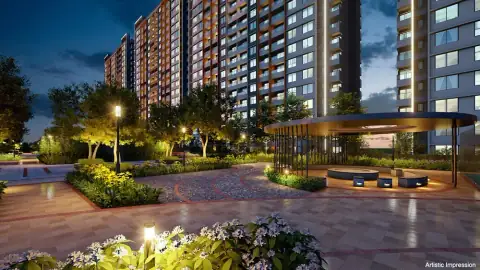
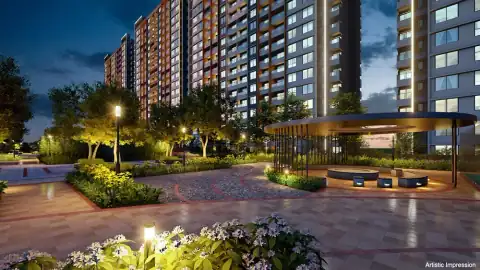
perf(edge): preload high-efficiency avif hero and use streaming HTMLRewriter in middleware

diff --git a/functions/_middleware.ts b/functions/_middleware.ts
@@ -102,16 +102,9 @@ export const onRequest: PagesFunction = async (context) => {
 
     const contentType = headers.get('content-type') || '';
 
-    // 8. Advanced Edge HTML Rewriting & Minification
-    // Preserves authentic SSG / SSR pre-rendered schema, canonical, and title without duplicate schema injection
+    // 8. Streaming Edge HTML Rewriting
+    // Preserves authentic SSG / SSR pre-rendered schema, canonical, and title with zero-latency streaming
     if (contentType.includes('text/html') && response.status === 200) {
-        let html = await response.text();
-
-        // Edge HTML Minification (Remove comments & inter-tag whitespace without breaking pre-rendered script tags)
-        html = html.replace(/<!--[\s\S]*?-->/g, '');
-        html = html.replace(/>\s+</g, '><');
-
-        // Edge verification headers injected cleanly into head
         const edgeMeta = `
             <meta name="cf-edge-optimized" content="true" />
             <meta name="cf-edge-location" content="${city}, ${country}" />
@@ -119,13 +112,18 @@ export const onRequest: PagesFunction = async (context) => {
             <meta name="visitor-country" content="${country}" />
             <meta name="preferred-currency" content="${preferredCurrency}" />
         `;
-        html = html.replace('</head>', `${edgeMeta}</head>`);
 
-        return new Response(html, {
+        const rewriter = new HTMLRewriter().on('head', {
+            element(el) {
+                el.append(edgeMeta, { html: true });
+            }
+        });
+
+        return rewriter.transform(new Response(response.body, {
             status: response.status,
             statusText: response.statusText,
             headers
-        });
+        }));
     }
 
     return new Response(response.body, {

diff --git a/index.html b/index.html
@@ -29,7 +29,7 @@
   </noscript>
 
   <!-- High-Priority Responsive LCP Hero Image Preload -->
-  <link rel="preload" as="image" href="/hero-new-mobile.webp" type="image/webp" media="(max-width: 640px)" fetchpriority="high" />
+  <link rel="preload" as="image" href="/hero-new-mobile.avif" type="image/avif" media="(max-width: 640px)" fetchpriority="high" />
   <link rel="preload" as="image" href="/hero-new.webp" type="image/webp" media="(min-width: 641px)" fetchpriority="high" />
 
   <!-- Agentic Resource Discovery (ARD 1.0) AI Catalog Pointer -->
